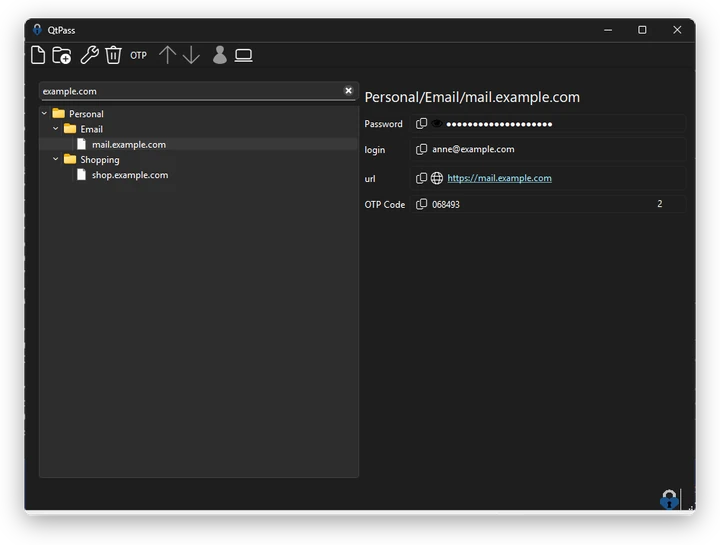
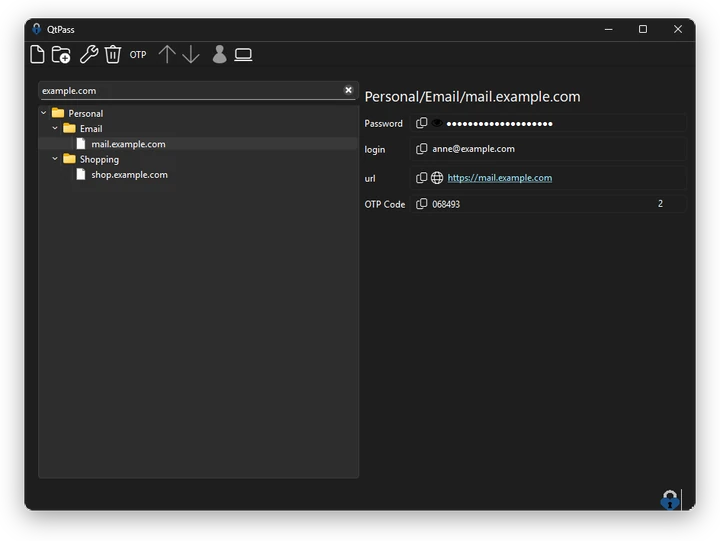
Windows tile: no wallpaper or taskbar pixels around the window
The 1 px DWM border is semi-transparent, so the runner's wallpaper showed through it, and the bottom 6 rows were the taskbar. Both are cropped off before the corners (9 px mask), hairline edge and shadow are applied.

Claude-Session: https://claude.ai/code/session_01VJygpMUf461yZgfAqwMJ6d

diff --git a/index.html b/index.html
@@ -758,22 +758,22 @@
         <div class="native platforms">
           <figure class="platform">
             <div class="capture">
-              <a class="full" href="images/windows-app.png?v=1.8.3-3" title="Full size">
+              <a class="full" href="images/windows-app.png?v=1.8.3-4" title="Full size">
               <picture>
                 <source
                   media="(prefers-color-scheme: dark)"
                   type="image/webp"
-                  srcset="images/windows-app-dark-480.webp?v=1.8.3-3 480w, images/windows-app-dark-720.webp?v=1.8.3-3 720w, images/windows-app-dark-960.webp?v=1.8.3-3 960w"
+                  srcset="images/windows-app-dark-480.webp?v=1.8.3-4 480w, images/windows-app-dark-720.webp?v=1.8.3-4 720w, images/windows-app-dark-960.webp?v=1.8.3-4 960w"
                   sizes="(max-width: 30rem) 92vw, (max-width: 60rem) 46vw, 17rem"
                 />
                 <source
                   type="image/webp"
-                  srcset="images/windows-app-480.webp?v=1.8.3-3 480w, images/windows-app-720.webp?v=1.8.3-3 720w, images/windows-app-960.webp?v=1.8.3-3 960w"
+                  srcset="images/windows-app-480.webp?v=1.8.3-4 480w, images/windows-app-720.webp?v=1.8.3-4 720w, images/windows-app-960.webp?v=1.8.3-4 960w"
                   sizes="(max-width: 30rem) 92vw, (max-width: 60rem) 46vw, 17rem"
                 />
                 <img
                   class="shot"
-                  src="images/windows-app.png?v=1.8.3-3"
+                  src="images/windows-app.png?v=1.8.3-4"
                   alt="QtPass on Windows 11, following the Windows look and feel"
                   loading="lazy"
                   decoding="async"
